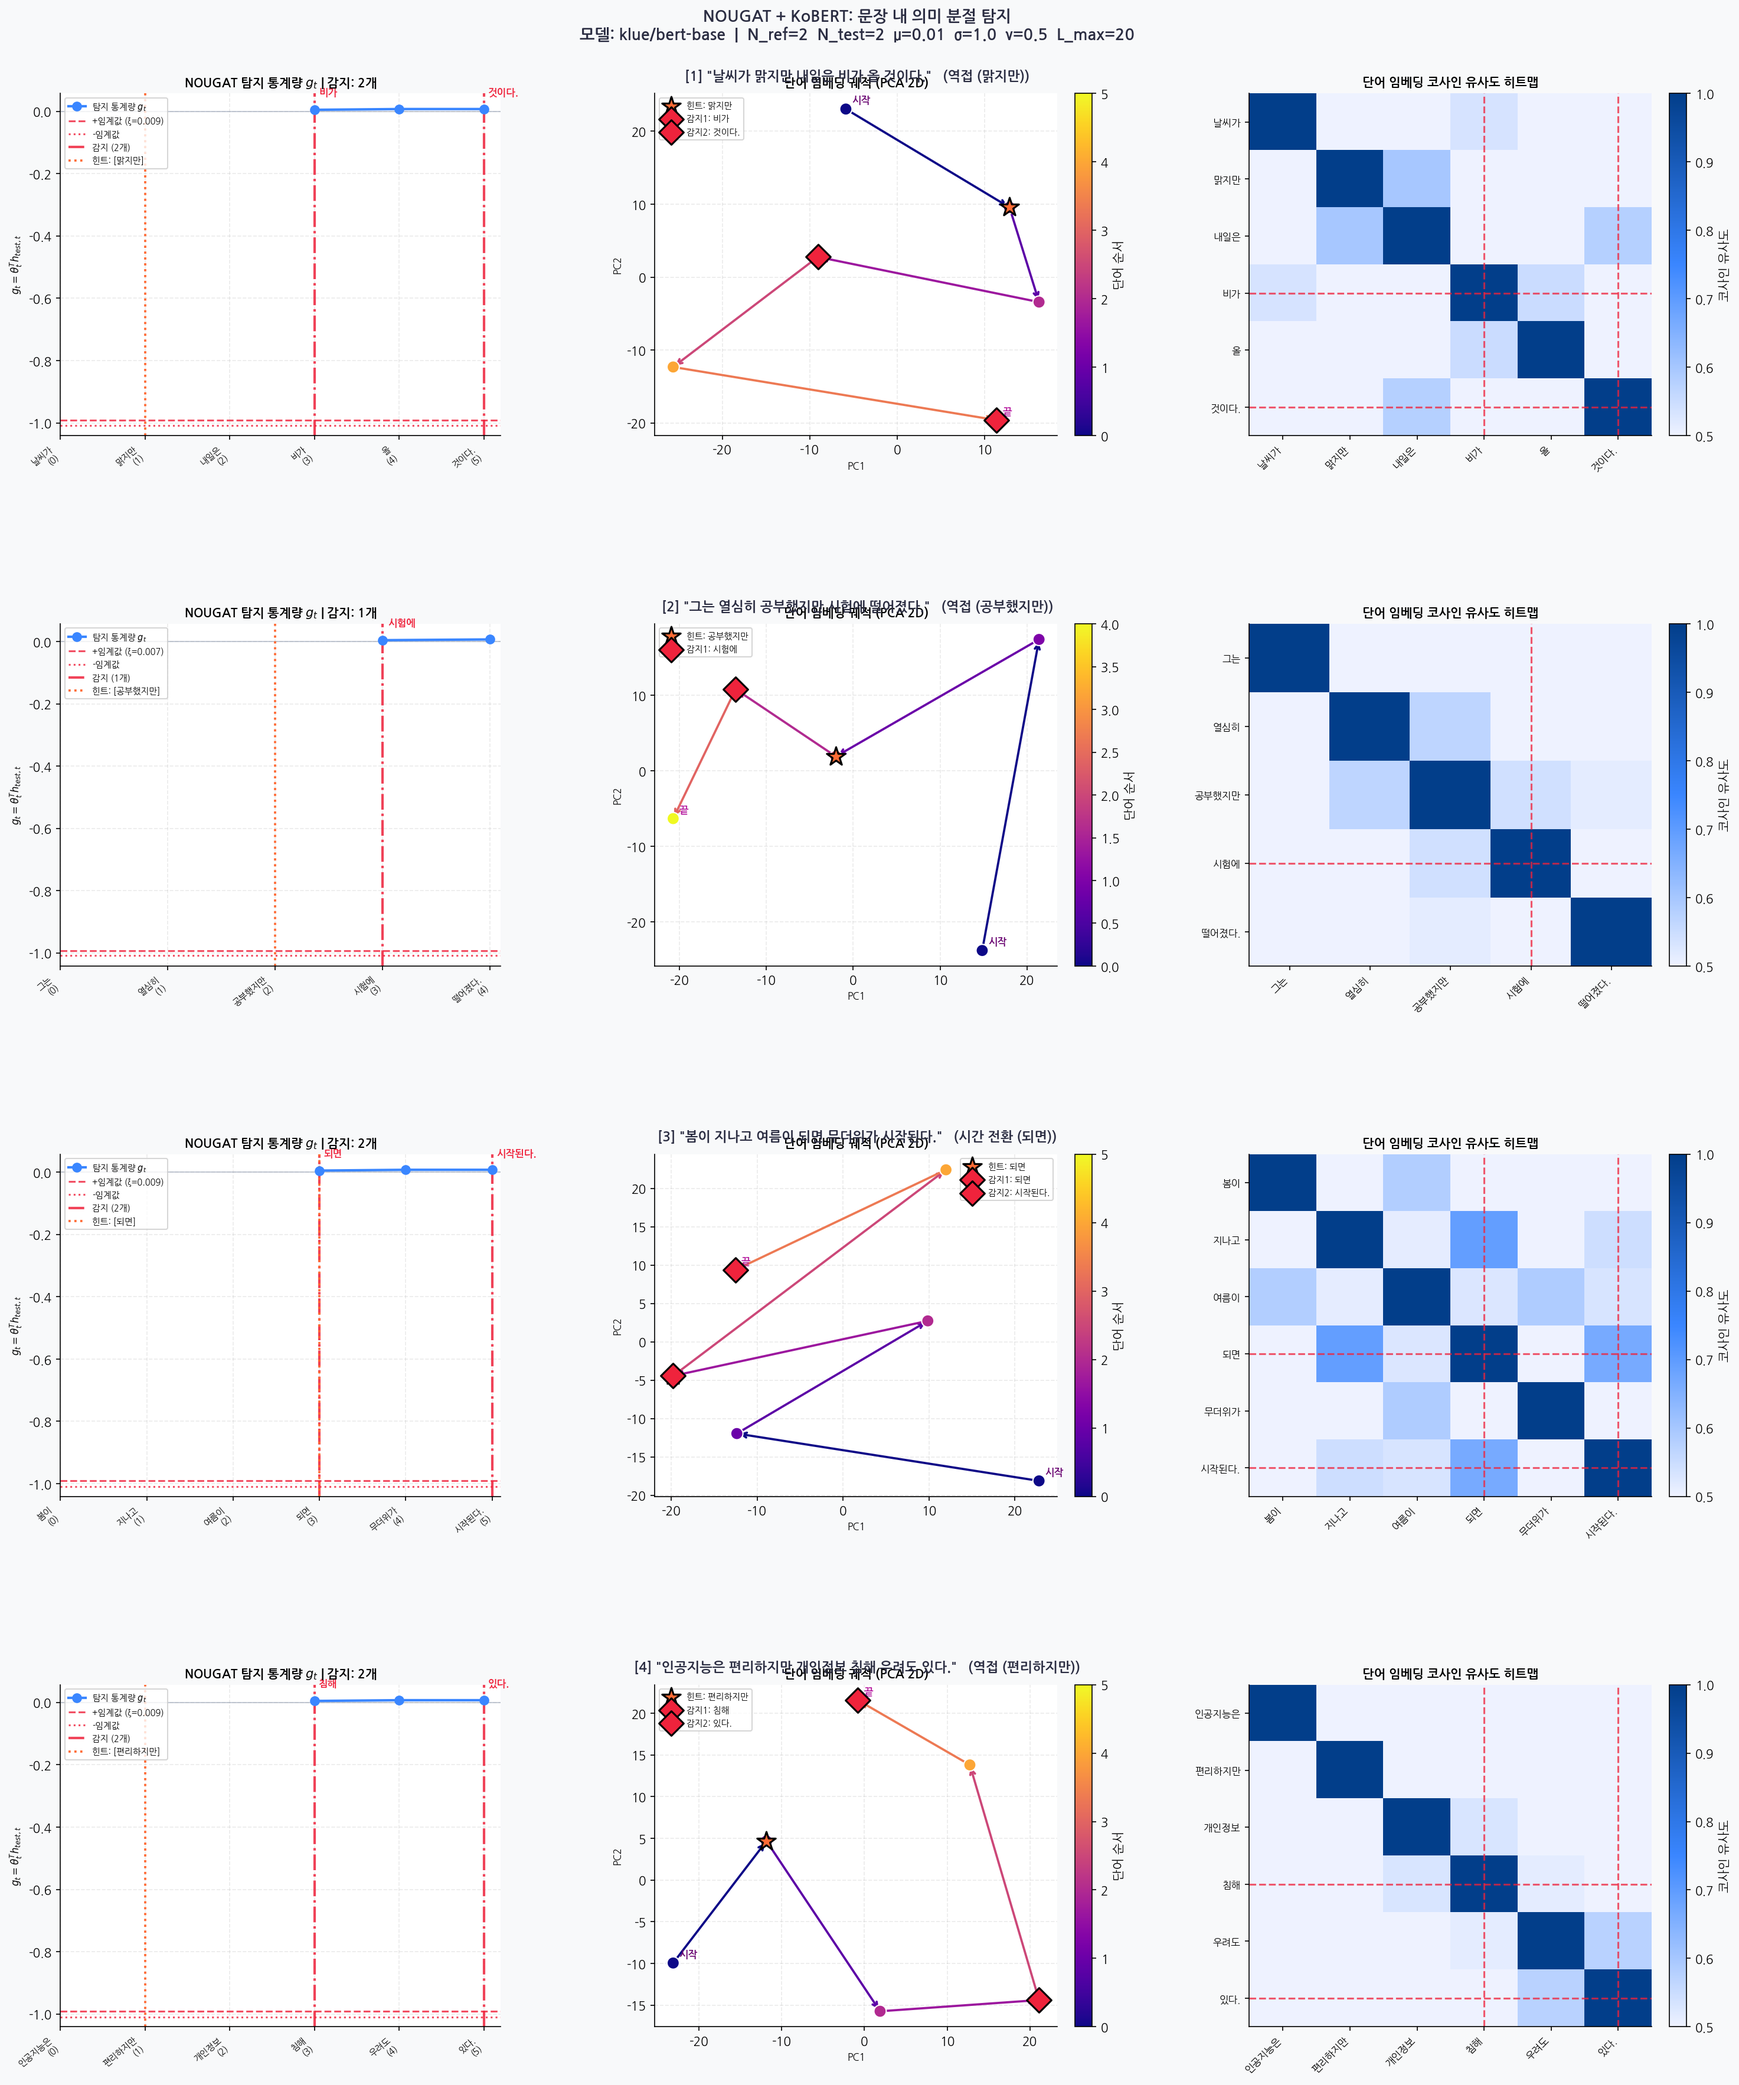
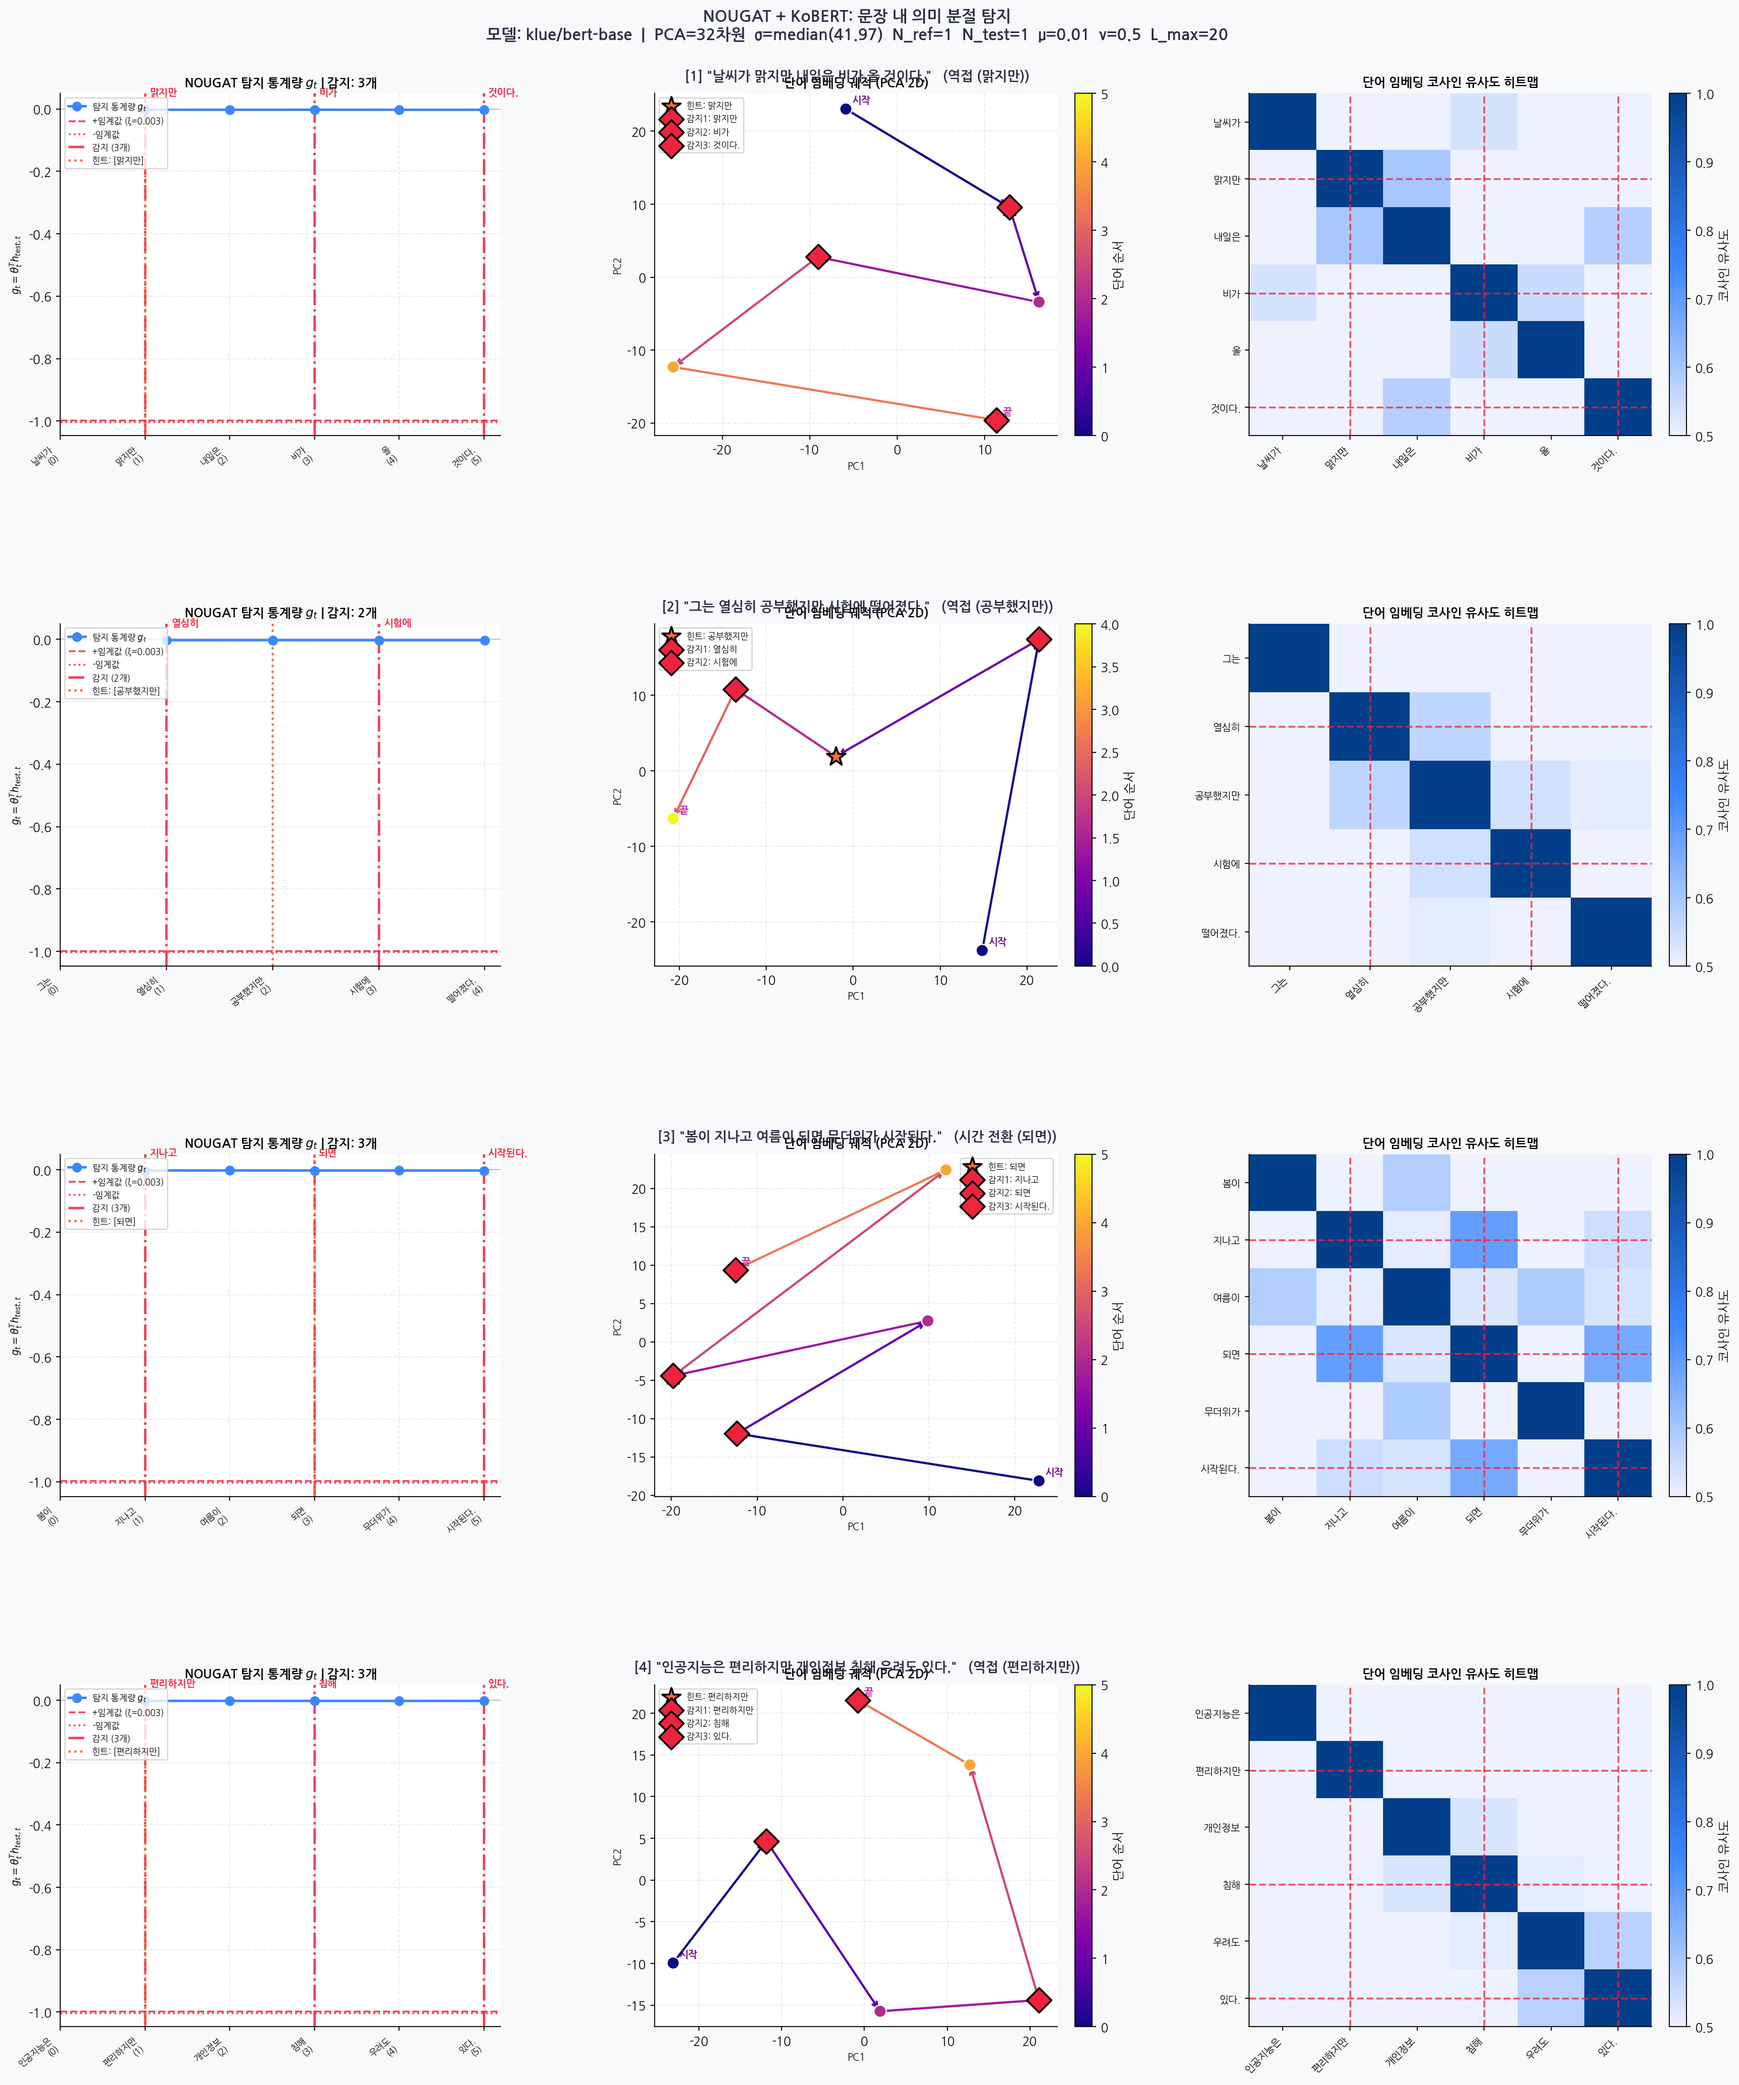
nougat

diff --git a/core/meaning_seperator/code/nougat.py b/core/meaning_seperator/code/nougat.py
@@ -64,13 +64,20 @@ SENTENCES = [
 ]
 
 # ── NOUGAT 하이퍼파라미터 (논문 Table 1 기준) ──
-N_REF  = 2      # 참조 윈도우 크기 (짧은 문장이라 2~3 권장)
-N_TEST = 2      # 테스트 윈도우 크기
+N_REF  = 1      # 참조 윈도우 크기 (짧은 문장이라 2~3 권장)
+N_TEST = 1      # 테스트 윈도우 크기
 MU     = 0.01   # KLMS 학습률 (learning rate)
 SIGMA  = 1.0    # RBF 커널 대역폭 (bandwidth)
 NU     = 0.5    # Coherence rule 임계값 (0~1, 낮을수록 딕셔너리 크기↑)
 L_MAX  = 20     # 딕셔너리 최대 크기
 LAMBDA = 1e-3   # 정규화 계수
+
+# PCA 차원 축소 (None이면 원본 768차원 사용)
+# 고차원에서 RBF 커널이 모두 0에 가까워지는 문제 해결
+PCA_DIM = 32
+
+# σ 자동 설정 여부 (True: median heuristic, False: SIGMA 값 사용)
+AUTO_SIGMA = True
 
 # 탐지 임계값: None이면 MIA 기반 자동 설정 (False alarm rate)
 FALSE_ALARM_RATE = 0.05   # 5% 유의수준
@@ -134,8 +141,52 @@ def get_word_embeddings(
     return words, word_embs
 
 
+
 # ══════════════════════════════════════════════════════════
-# 3. NOUGAT 알고리즘 (논문 Algorithm 1)
+# 3. 전처리: PCA 차원 축소 + Median Heuristic σ 설정
+# ══════════════════════════════════════════════════════════
+
+def median_heuristic(embs: List[np.ndarray]) -> float:
+    """
+    RBF 커널 대역폭 σ 자동 설정: pairwise 거리의 중앙값.
+    고차원 임베딩에서 σ=1.0은 k(x,y)≈0 문제를 일으킴.
+    median heuristic이 커널 기계학습의 표준 휴리스틱.
+    """
+    arr = np.array(embs)
+    n = len(arr)
+    dists = []
+    for i in range(n):
+        for j in range(i + 1, n):
+            dists.append(float(np.linalg.norm(arr[i] - arr[j])))
+    if not dists:
+        return 1.0
+    sigma = float(np.median(dists))
+    return max(sigma, 1e-3)   # 0 방지
+
+
+def reduce_dim(
+    embs: List[np.ndarray],
+    n_components: int,
+) -> Tuple[List[np.ndarray], object]:
+    """
+    PCA로 임베딩 차원 축소.
+    768차원 → n_components차원으로 줄여 커널 계산을 안정화.
+    fit은 전체 임베딩으로, transform도 동일 PCA 적용.
+    """
+    arr = np.array(embs)
+    # 최대 n_components는 샘플 수 - 1
+    n_comp = min(n_components, arr.shape[0] - 1, arr.shape[1])
+    scaler = StandardScaler()
+    arr_scaled = scaler.fit_transform(arr)
+    pca = PCA(n_components=n_comp, random_state=42)
+    arr_reduced = pca.fit_transform(arr_scaled)
+    reduced = [arr_reduced[i] for i in range(len(embs))]
+    explained = float(pca.explained_variance_ratio_.sum())
+    return reduced, (scaler, pca, explained)
+
+
+# ══════════════════════════════════════════════════════════
+# 4. NOUGAT 알고리즘 (논문 Algorithm 1)
 # ══════════════════════════════════════════════════════════
 
 def rbf_kernel(x: np.ndarray, y: np.ndarray, sigma: float) -> float:
@@ -496,7 +547,7 @@ def draw_panels(
     axC.spines[["top","right"]].set_visible(False)
 
 
-def make_figure(all_results: list, output_path: str):
+def make_figure(all_results: list, output_path: str, sigma_label: str = ""):
     setup_korean_font()
 
     BLUE   = "#3A86FF"
@@ -511,8 +562,8 @@ def make_figure(all_results: list, output_path: str):
     fig.patch.set_facecolor("#F8F9FA")
     fig.suptitle(
         "NOUGAT + KoBERT: 문장 내 의미 분절 탐지\n"
-        f"모델: {MODEL_NAME}  |  "
-        f"N_ref={N_REF}  N_test={N_TEST}  μ={MU}  σ={SIGMA}  ν={NU}  L_max={L_MAX}",
+        f"모델: {MODEL_NAME}  |  PCA={PCA_DIM}차원  σ={sigma_label}  "
+        f"N_ref={N_REF}  N_test={N_TEST}  μ={MU}  ν={NU}  L_max={L_MAX}",
         fontsize=13, fontweight="bold", y=0.99, color="#2B2D42",
     )
 
@@ -570,15 +621,32 @@ def main():
         words, word_embs = get_word_embeddings(sentence, tokenizer, model, device)
         print(f"  단어 목록: {words}")
 
+        # ── PCA 차원 축소 ──
+        if PCA_DIM is not None:
+            embs_input, (scaler, pca_obj, expl) = reduce_dim(word_embs, PCA_DIM)
+            print(f"  PCA 축소: 768 → {len(embs_input[0])}차원  "
+                  f"(설명 분산: {expl*100:.1f}%)")
+        else:
+            embs_input = word_embs
+            print(f"  PCA 축소: 사용 안 함 (원본 {word_embs[0].shape[0]}차원)")
+
+        # ── Median Heuristic σ 설정 ──
+        if AUTO_SIGMA:
+            sigma_used = median_heuristic(embs_input)
+            print(f"  Median Heuristic σ: {sigma_used:.4f}  (기본값={SIGMA})")
+        else:
+            sigma_used = SIGMA
+            print(f"  σ 고정값: {sigma_used}")
+
         # NOUGAT 온라인 처리
         detector = NOUGAT(
             n_ref=N_REF, n_test=N_TEST,
-            mu=MU, sigma=SIGMA, nu=NU,
+            mu=MU, sigma=sigma_used, nu=NU,
             l_max=L_MAX, lam=LAMBDA,
         )
 
         print(f"\n  NOUGAT 온라인 처리:")
-        for t, (word, emb) in enumerate(zip(words, word_embs)):
+        for t, (word, emb) in enumerate(zip(words, embs_input)):
             g_t = detector.update(emb)
             if g_t is not None:
                 print(f"    t={t:02d} [{word:>12s}]  g_t={g_t:+.5f}  "
@@ -603,12 +671,14 @@ def main():
             "g_values":  detector.g_values,
             "xi":        xi,
             "detected":  detected,
+            "sigma_used": sigma_used,
         })
 
     print(f"\n{'─'*60}")
     print(f"  시각화 생성 → {OUTPUT_PATH}")
     print(f"{'─'*60}")
-    make_figure(all_results, OUTPUT_PATH)
+    sigma_str = f"median({all_results[0]['sigma_used']:.2f})" if AUTO_SIGMA else str(SIGMA)
+    make_figure(all_results, OUTPUT_PATH, sigma_label=sigma_str)
     print("\n실험 완료!")
 
 
